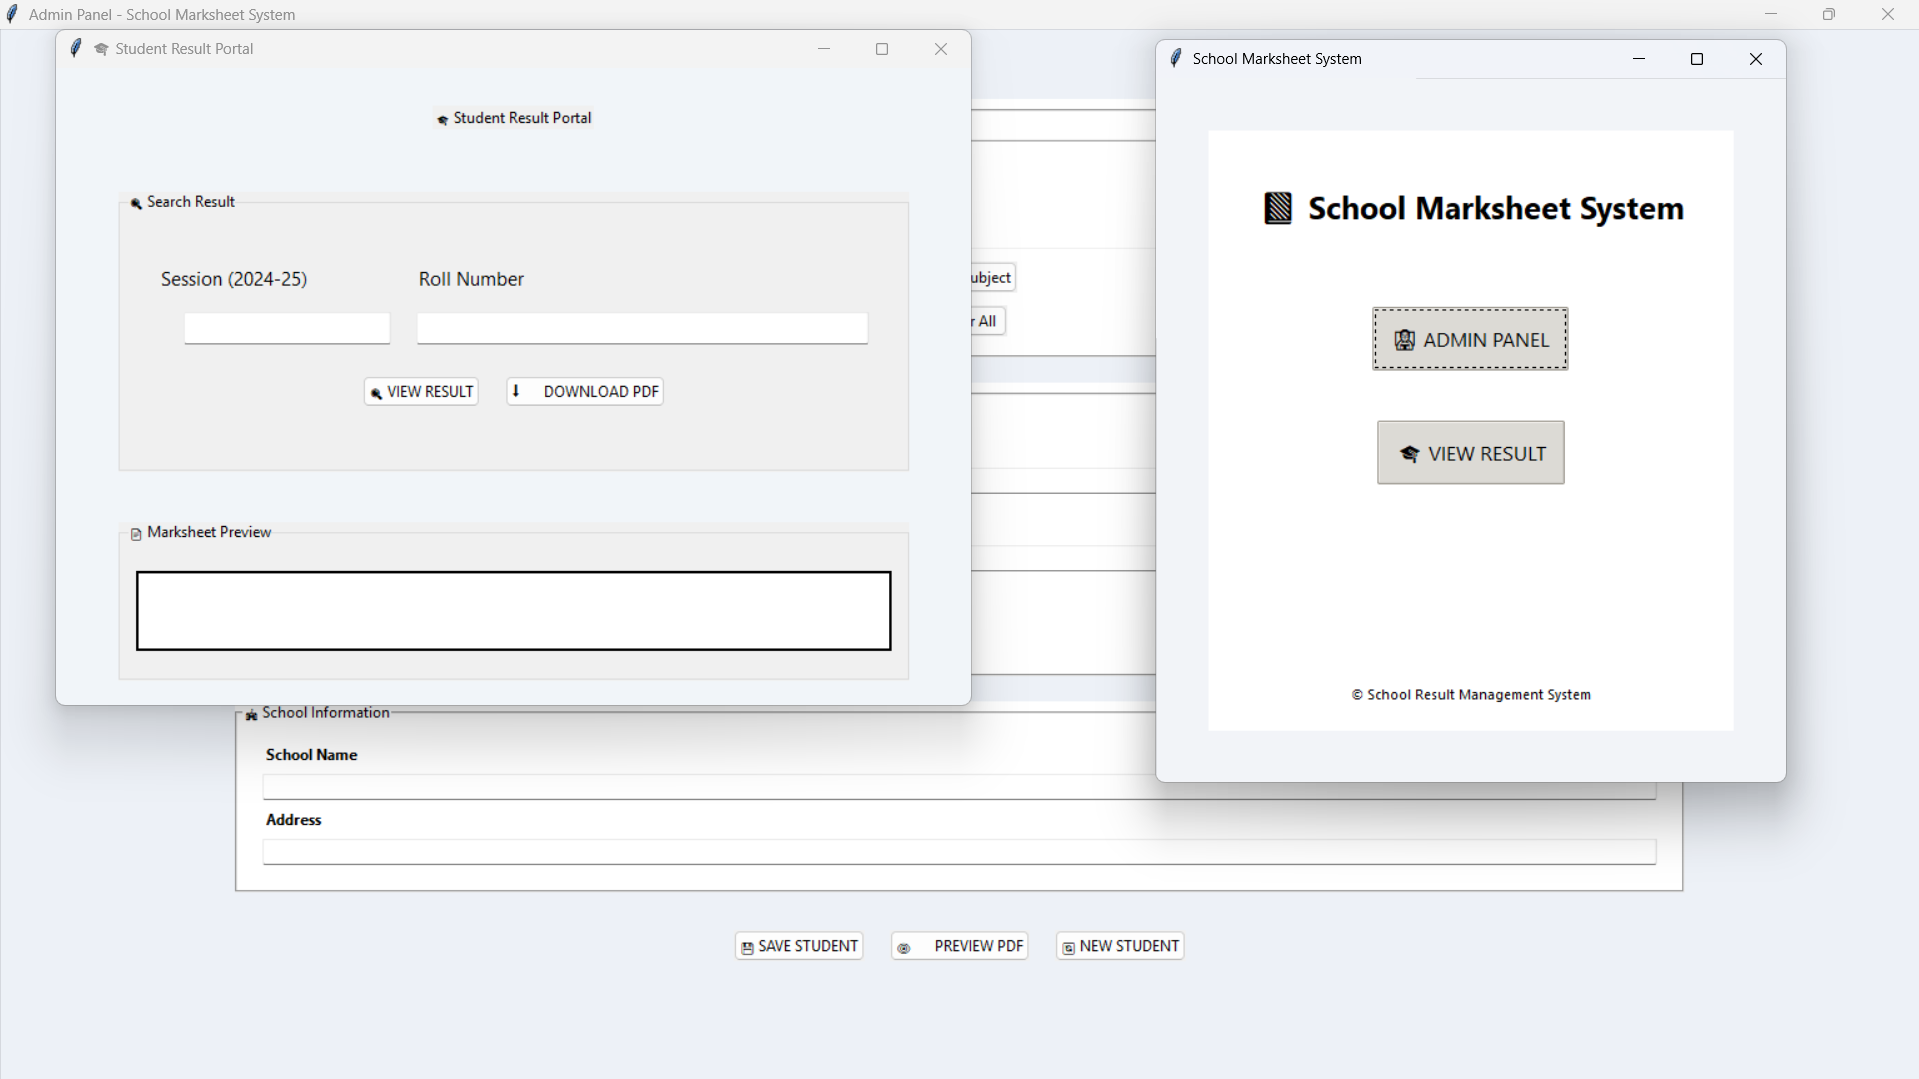
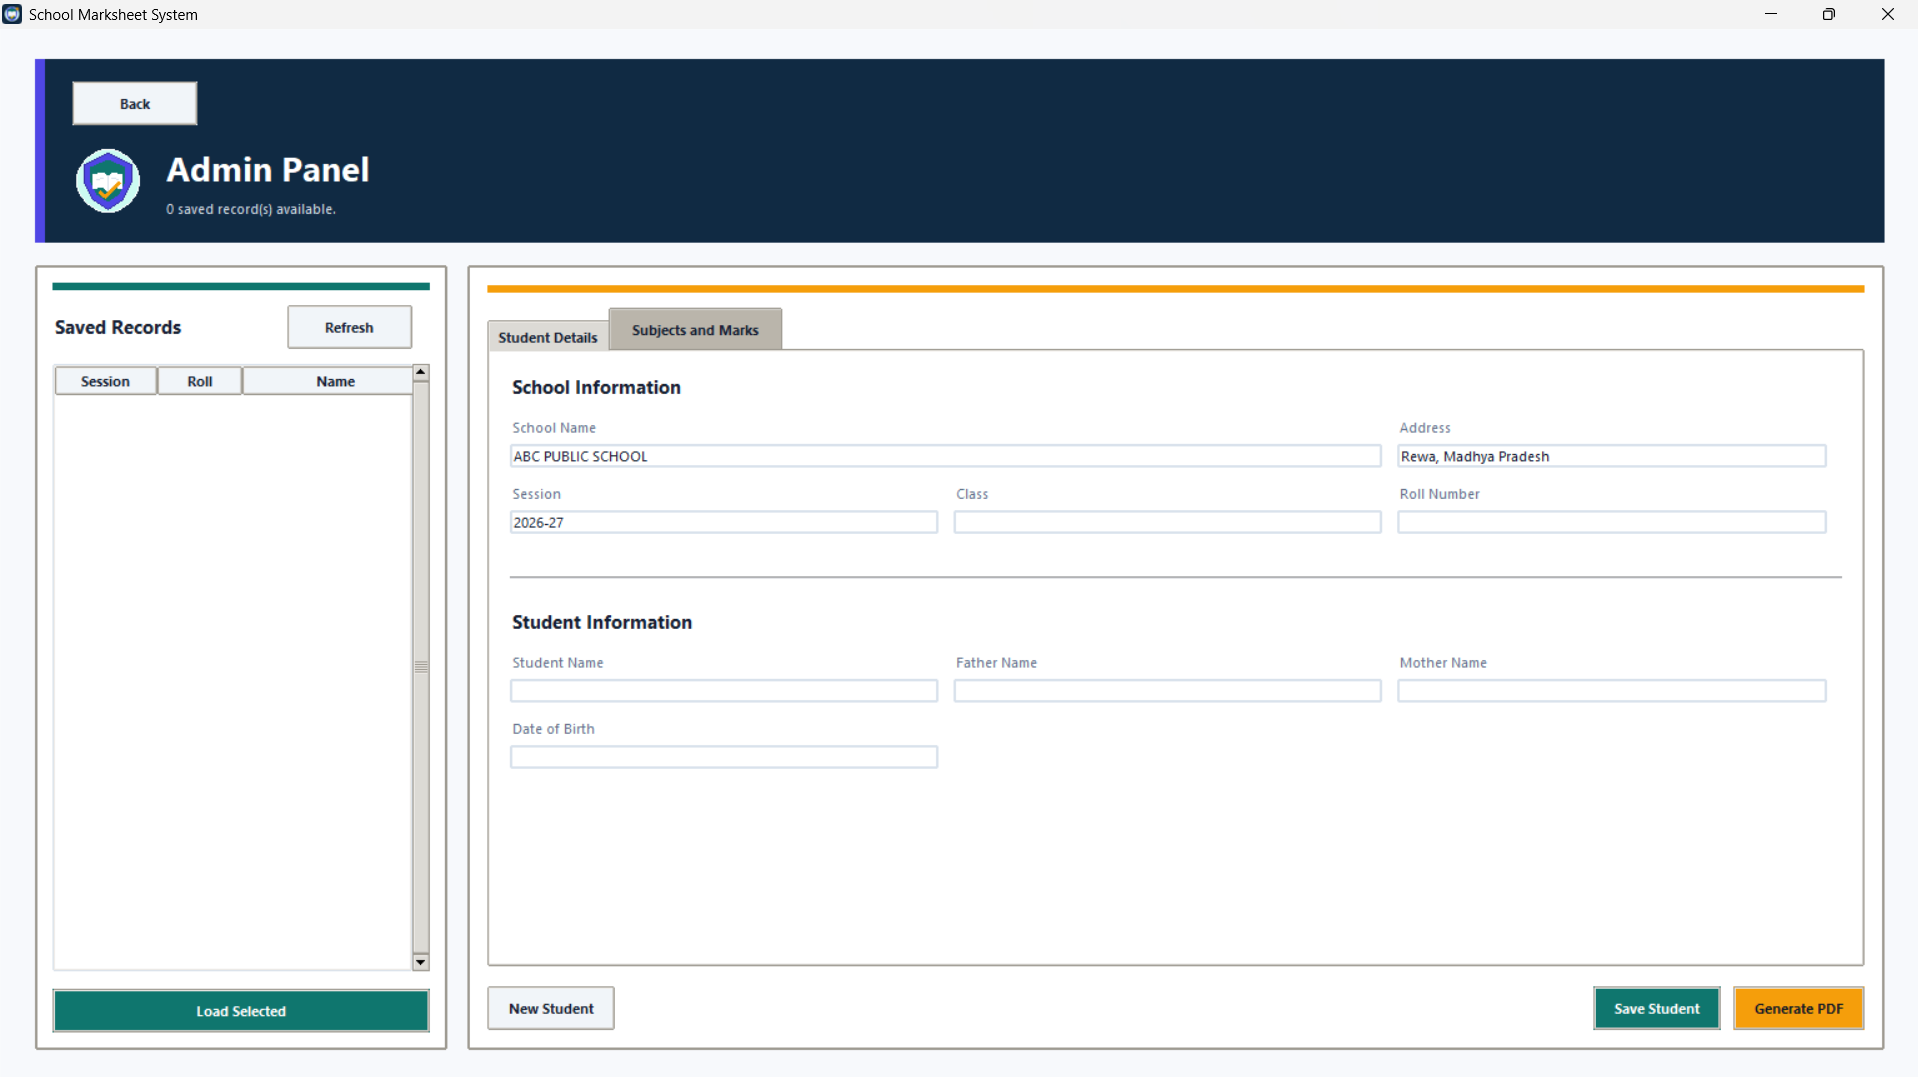
Updated

diff --git a/projects.html b/projects.html
@@ -412,7 +412,7 @@ header{
 <div class="project-card scroll-animate">
 <img src="YT-video-installer.png">
 <div class="project-content">
-<h3>YT Video Installer</h3>
+<h3>YouTube-Downloader-Pro</h3>
 <p>software which install video in your system by using the URL of the video.</p>
 <div class="like-dislike">
 <button class="like-btn"><i class="fas fa-thumbs-up"></i></button>